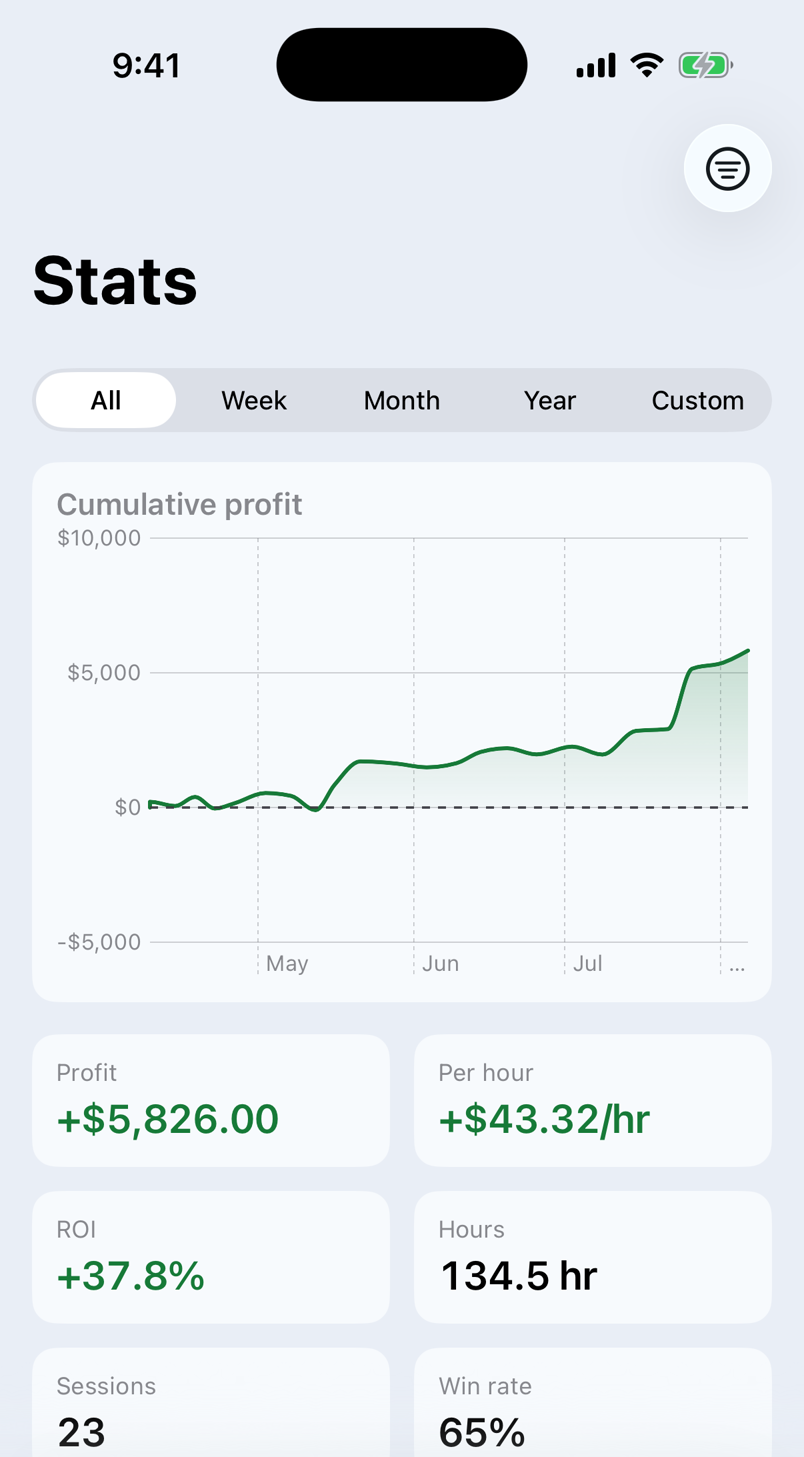
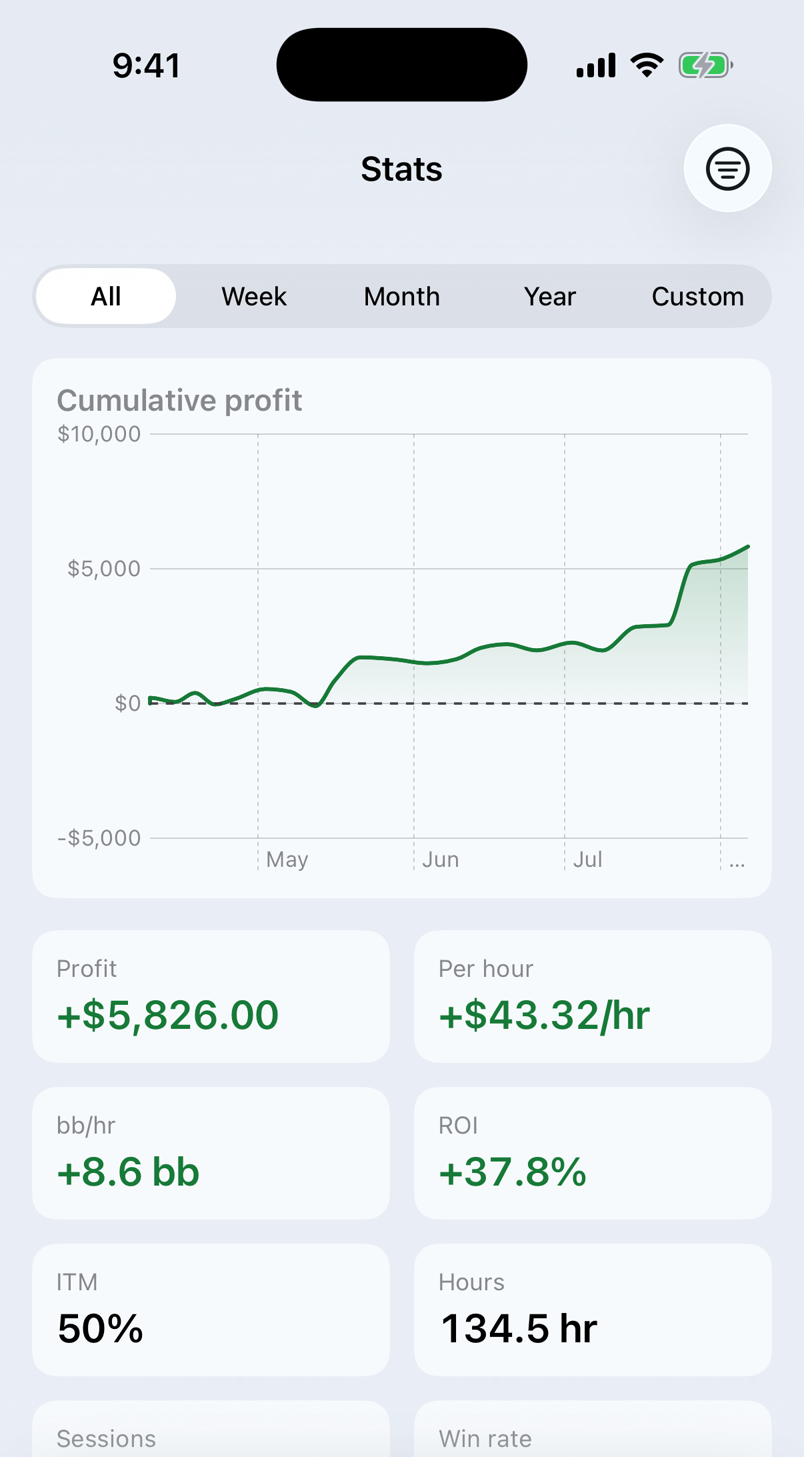
Add bb/hr and ITM% back to the copy, refresh the stats shot (#3)
chiplog#80 shipped both metrics after #22's copy was written. The
landing page had dropped them precisely because they weren't in
StatsCalculator at the time — accurate then, understating the app now.

The stats screenshot was captured before #80 too, so it showed a metrics
grid with neither card. Re-captured against the merged build: bb/hr
(+8.6 bb) and ITM (50%) are both visible.

bb/hr gets its own bullet rather than being appended to the list of
metrics, because it's the one that answers a question the others can't:
$/hr can't compare a $1/$2 grind to a $5/$10 one, and bb/hr can.

diff --git a/index.html b/index.html
@@ -81,7 +81,7 @@
       <figcaption>A live session, still running.</figcaption>
     </figure>
     <figure>
-      <img src="screenshots/stats.png" width="804" height="1457" alt="ChipLog stats screen: a cumulative profit chart and cards for profit, per hour, ROI, hours, sessions and win rate." loading="lazy">
+      <img src="screenshots/stats.png" width="804" height="1457" alt="ChipLog stats screen: a cumulative profit chart and cards for profit, per hour, bb/hr, ROI, ITM and hours." loading="lazy">
       <figcaption>Stats over any period.</figcaption>
     </figure>
     <figure>
@@ -94,7 +94,8 @@
   <ul>
     <li><strong>Log a session in seconds</strong> — cash or tournament, with stakes, buy-ins, top-ups, rebuys, add-ons and what you cashed out.</li>
     <li><strong>Run a live session</strong> — start the timer at the table, add top-ups as you go, count your stack to see where you stand, and end it when you rack up. Closing the app doesn't stop the clock.</li>
-    <li><strong>See the trend</strong> — a cumulative profit chart plus profit, $/hr, ROI, hours, win rate and session count, for this week, month, year, all time or a range you pick.</li>
+    <li><strong>See the trend</strong> — a cumulative profit chart plus profit, $/hr, hours, win rate and session count, for this week, month, year, all time or a range you pick.</li>
+    <li><strong>In the units that actually compare</strong> — <strong>bb/hr</strong> for cash, so 8 bb/hr at $1/$2 counts as the same achievement as at $5/$10, plus <strong>ROI</strong> and <strong>ITM%</strong> for tournaments.</li>
     <li><strong>Find where the money comes from</strong> — the same numbers broken down by stakes, game, venue and format.</li>
     <li><strong>Track your bankroll</strong> — sessions plus your own deposits, withdrawals and adjustments, so the number you see is the real one.</li>
     <li><strong>Keep it tidy</strong> — your own list of game types, venues and tags, notes on any session, and search and filters over the whole history.</li>
